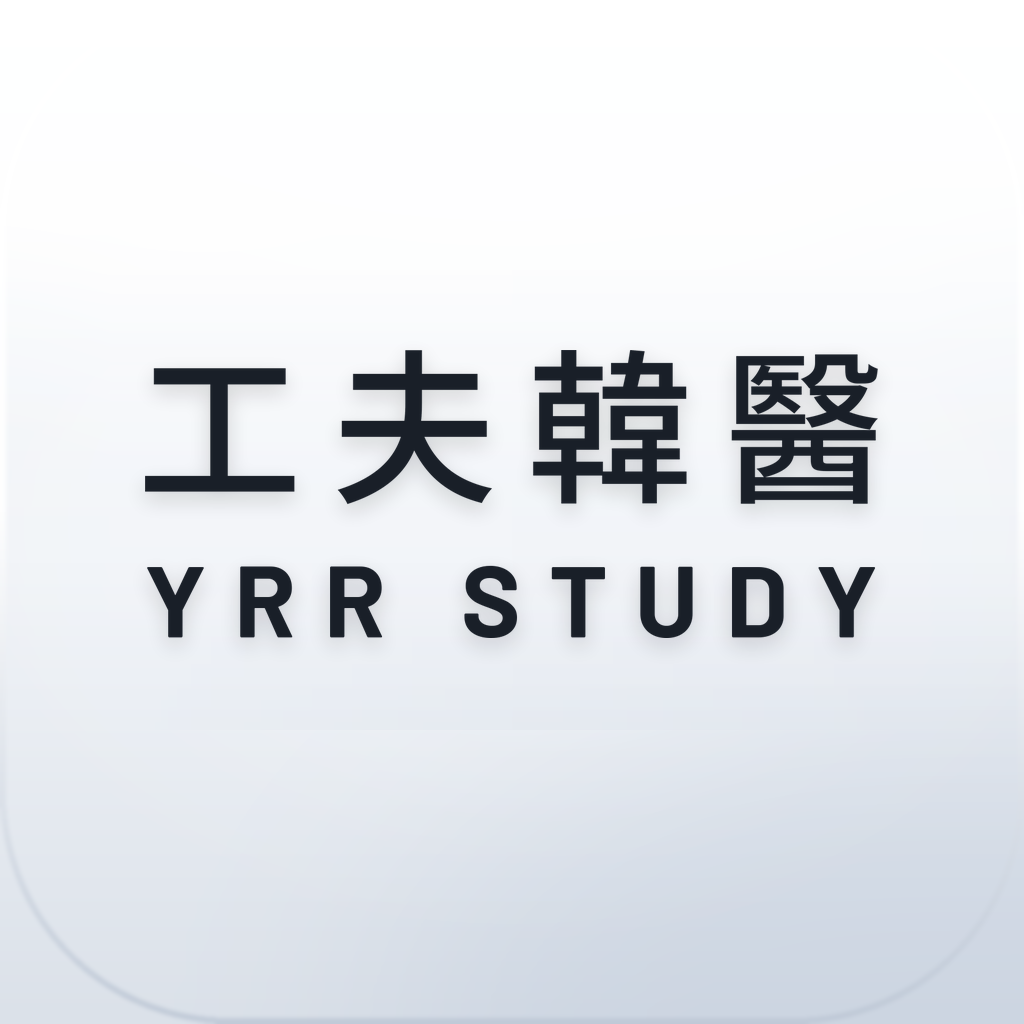
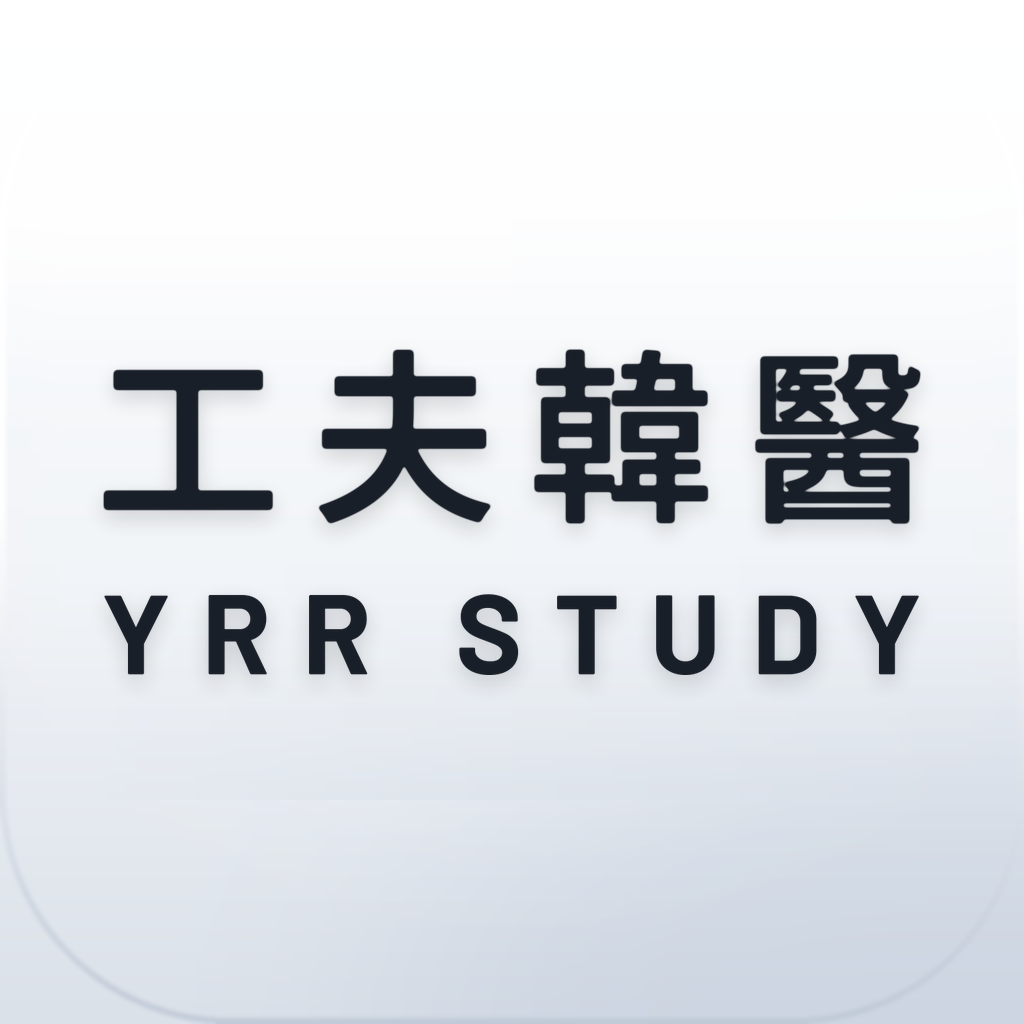
앱 아이콘 로고 크기 키우고 한자 살짝 굵게
Claude-Session: https://claude.ai/code/session_015uaKLahaYjwSoCrRpGm8MR

diff --git a/index.html b/index.html
@@ -20,9 +20,9 @@
   window.__inapp = true;
 })();
 </script>
-<link rel="manifest" href="manifest.webmanifest?v=4">
-<link rel="apple-touch-icon" href="icons/apple-touch-icon.png?v=4">
-<link rel="icon" type="image/png" href="icons/favicon.png?v=4">
+<link rel="manifest" href="manifest.webmanifest?v=5">
+<link rel="apple-touch-icon" href="icons/apple-touch-icon.png?v=5">
+<link rel="icon" type="image/png" href="icons/favicon.png?v=5">
 <link rel="preconnect" href="https://cdn.jsdelivr.net">
 <link rel="stylesheet" href="https://cdn.jsdelivr.net/gh/orioncactus/pretendard@v1.3.9/dist/web/variable/pretendardvariable-dynamic-subset.min.css">
 <link rel="stylesheet" href="css/app.css">
